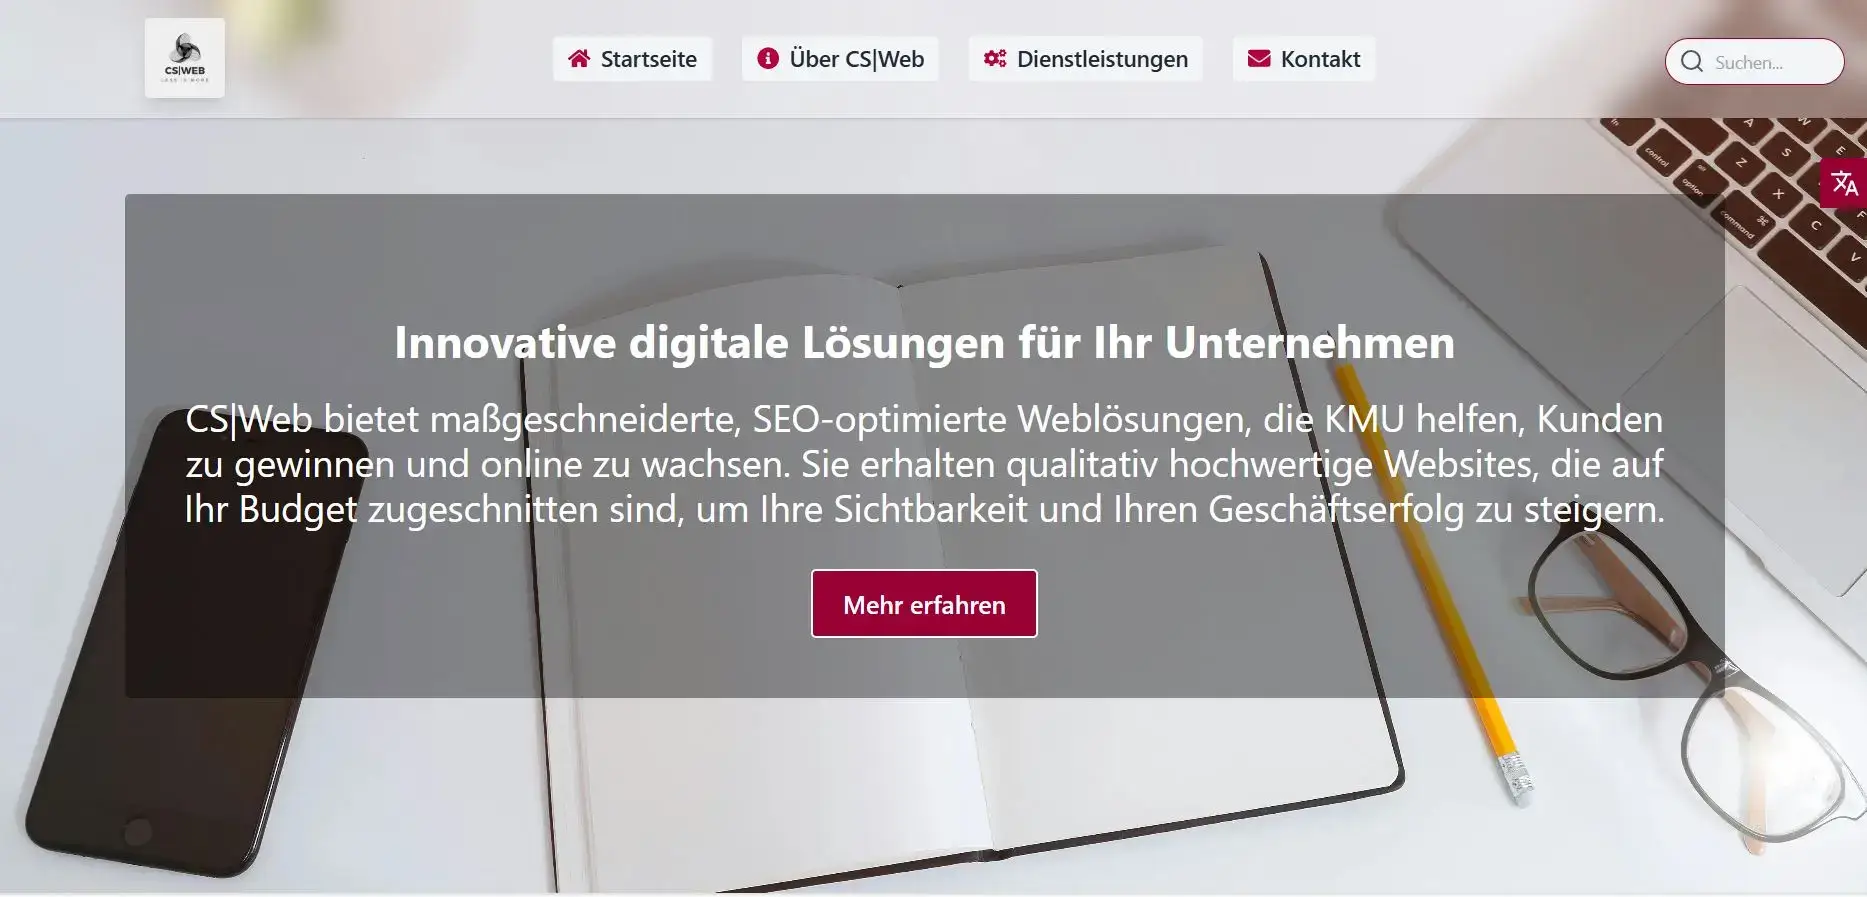
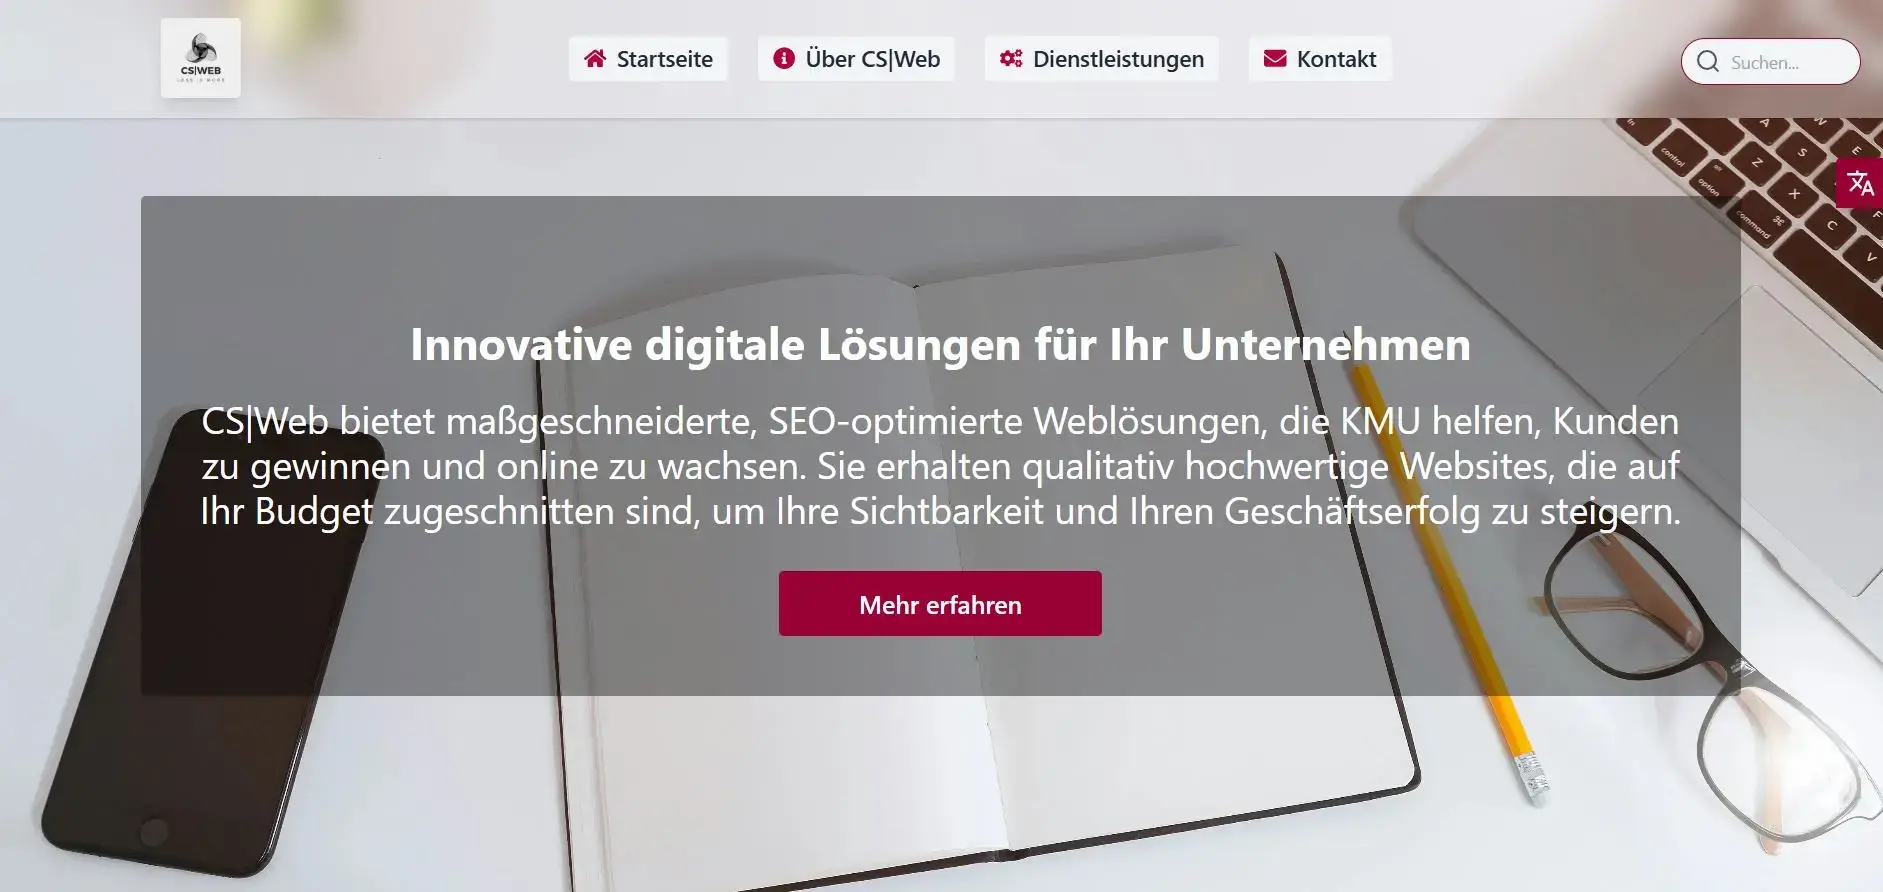
UI adjustments

diff --git a/src/pages/ProjectsPage/ProjectsPage.module.css b/src/pages/ProjectsPage/ProjectsPage.module.css
@@ -3,31 +3,52 @@
   padding: 2rem 1.5rem;
 }
 
-/* GALERIE CU PROIECTE – FLEX */
 .projectGrid {
-  display: flex;
-  flex-wrap: wrap;
-  justify-content: center;
-  gap: 4rem;
-  width: 100%;
-  max-width: 1200px;
+  list-style: none;
+  margin: 0;
   padding: 1rem;
   padding-top: 4rem;
+  display: grid;
+  gap: 2rem;
+  width: 100%;
+  max-width: 1200px;
+
+  /* 📱 mobil: 2 coloane */
+  grid-template-columns: repeat(2, minmax(0, 1fr));
+}
+
+/* 💻 >= 768px: 3 coloane */
+@media (min-width: 768px) {
+  .projectGrid {
+    gap: 2.5rem;
+    grid-template-columns: repeat(3, minmax(0, 1fr));
+  }
+}
+
+/* 🖥 >= 1280px: 4 coloane */
+@media (min-width: 1280px) {
+  .projectGrid {
+    grid-template-columns: repeat(4, minmax(0, 1fr));
+  }
 }
 
 .projectCard {
   position: relative;
-  border-radius: 0.5rem; 
+  border-radius: 0.5rem;
   overflow: hidden;
   cursor: pointer;
-  width: 25rem;
+  width: 100%;
+  min-width: 0;
+  border: 2px dashed transparent;
   aspect-ratio: 4 / 3;
-  transition: transform 0.3s ease;
+  transition: transform 0.3s ease, box-shadow 0.3s ease;
   box-shadow: 0 0.5rem 1rem rgba(0, 0, 0, 0.35);
 }
+
 .projectCard:hover {
-  transform: scale(1.02);
-  border: 2px dashed #ccc;
+  transform: translateY(-2px) scale(1.02);
+  box-shadow: 0 1rem 2rem rgba(0, 0, 0, 0.35);
+  border-color: #ccc;
 }
 
 .proTitle {
@@ -40,7 +61,7 @@
   background-size: cover;
   background-position: center;
   position: relative;
-  border-radius: 0.5rem; /* dacă vrei colțuri rotunjite */
+  border-radius: 0.5rem;
   box-shadow: 0 6px 18px rgba(0, 0, 0, 0.25);
 }
 
@@ -61,7 +82,7 @@
 
 .projectTitle {
   color: white;
-  font-size: 1.3rem;
+  font-size: 1.1rem;
   font-weight: 600;
   text-align: center;
 }
@@ -72,21 +93,18 @@
   max-width: 25rem;
 }
 
-
+/* Ajustări mobile mici */
 @media only screen and (max-width: 767px) {
   .mainContainer {
     gap: 2rem;
   }
-
   .projectGrid {
-    justify-content: center;
     padding: 0.5rem;
+    gap: 1rem;
   }
-
   .placeholder {
     height: 4rem;
   }
-
   hr {
     display: block;
     border-top: 2px solid #3747d6;
@@ -94,15 +112,14 @@
   }
 }
 
+/* Tablet / laptop */
 @media (min-width: 701px) and (max-width: 1200px) {
   .mainContainer {
     padding: 2.5rem;
   }
-
   .projectGrid {
-    justify-content: center;
+    justify-items: stretch;
   }
-
   hr {
     display: block;
     border-top: 2px solid #3747d6;

diff --git a/src/components/NextItemsCarousel/NextItemsCarousel.jsx b/src/components/NextItemsCarousel/NextItemsCarousel.jsx
@@ -1,0 +1,55 @@
+import React from "react";
+import { Swiper, SwiperSlide } from "swiper/react";
+import { Pagination, Keyboard, A11y, EffectCoverflow } from "swiper/modules";
+
+import "swiper/css";
+import "swiper/css/pagination";
+
+import css from "./NewItemsCarousel.module.css";
+
+const NewItemsCarousel = ({ items = [], title, subtitle }) => {
+  return (
+    <div className={css.wrapper}>
+      {title && <h3 className={css.title}>{title}</h3>}
+      {subtitle && <p className={css.subtitle}>{subtitle}</p>}
+
+      <Swiper
+        modules={[Pagination, Keyboard, A11y, EffectCoverflow]}
+        effect="coverflow"
+        coverflowEffect={{
+          rotate: 0,
+          depth: 120,
+          stretch: 0,
+          modifier: 1,
+          slideShadows: false,
+        }}
+        /* 🔧 Fix: fără centrare, fără auto-width */
+        centeredSlides={false}
+        slidesPerView={1}
+        spaceBetween={16}
+        breakpoints={{
+          640: { slidesPerView: 2 },
+          1024: { slidesPerView: 3 },
+        }}
+        pagination={{ clickable: true }}
+        keyboard={{ enabled: true }}
+        className={css.swiper}
+      >
+        {items.map((it) => (
+          <SwiperSlide key={it.id} className={css.slide}>
+            <article className={css.card} aria-label={it.name}>
+              {it.badge && <span className={css.badge}>{it.badge}</span>}
+              <img src={it.img} alt={it.name} className={css.image} loading="lazy" />
+              <div className={css.info}>
+                <h4 className={css.name}>{it.name}</h4>
+                {it.price && <div className={css.price}>{it.price}</div>}
+              </div>
+            </article>
+          </SwiperSlide>
+        ))}
+      </Swiper>
+    </div>
+  );
+};
+
+export default NewItemsCarousel;

diff --git a/src/components/LightboxGallery/LightboxGallery.module.css b/src/components/LightboxGallery/LightboxGallery.module.css
@@ -1,64 +1,3 @@
-/* 
-.image-gallery-content .image-gallery-slide .image-gallery-image {
-  border-radius: 0.5rem;
-}
-
-.galleryWrapper {
-  width: 100%;
-}
-
-.image-gallery-left-nav .image-gallery-svg,
-.image-gallery-right-nav .image-gallery-svg {
-  height: 4rem;
-  width: 3rem;
-}
-
-
-.imagine {
-  width: 6.25rem;
-  height: 6.25rem;
-  object-fit: cover;
-  border-radius: 0.5rem;
-  cursor: pointer;
-}
-
-
-@media only screen and (max-width: 767px) {
-
-}
-
-.galleryContainer {
-  display: flex;
-  flex-wrap: wrap;
-  gap: 1rem;
-  justify-content:center;
-
-}
-
-.thumbnail {
-  width: 100px; 
-  height: 100px; 
-  object-fit: cover;
-  cursor: pointer;
-  transition: transform 0.3s ease;
-  border-radius:0.5rem;
-}
-
-.thumbnail:hover {
-  transform: scale(1.05);
-}
-
-.imgFit {
-  max-width: 100vw;
-  max-height: 100vh;
-  object-fit: contain;
-}
-.fullscreenWrapper {
-  width: 100%;
-  height: 100%;
-} */
-
-
 /* Container grilă — se întinde pe lățimea disponibilă */
 .galleryContainer {
   width: 100%;
@@ -70,14 +9,14 @@
 /* Forțează 2 coloane pe desktop, chiar dacă wrapperul tinde să se “strângă” */
 @media (min-width: 900px) {
   .galleryContainer {
-    grid-template-columns: repeat(2, minmax(0, 1fr));
+    grid-template-columns: repeat(4, minmax(0, 1fr));
   }
 }
 
 /* Thumbnail-urile cu umbră și hover */
 .thumbnail {
   width: 100%;
-  height: 240px;            /* ajustează după layout */
+  height: 140px;        
   object-fit: cover;
   border-radius: 0.5rem;
   box-shadow: 0 6px 18px rgba(0, 0, 0, 0.25);

diff --git a/src/components/NextItemsCarousel/NextItemsCarousel.module.css b/src/components/NextItemsCarousel/NextItemsCarousel.module.css
@@ -1,0 +1,41 @@
+.wrapper { width: 100%; }
+.title { text-align: center; font-size: 1.25rem; font-weight: 700; margin: .25rem 0; }
+.subtitle { text-align: center; opacity: .7; margin: 0 0 .5rem; }
+
+/* fiecare slide are lățime fixă, ca în mock */
+.slide { width: 180px !important; }
+
+.card {
+  position: relative;
+  background: #fff;
+  border-radius: 14px;
+  box-shadow: 0 8px 24px rgba(0,0,0,.12);
+  padding: .75rem;
+  overflow: hidden;
+  transform: translateZ(0);
+  transition: transform .25s ease, box-shadow .25s ease;
+}
+.image { width: 100%; height: 140px; object-fit: cover; border-radius: 10px; }
+.info { margin-top: .5rem; display: grid; gap: .25rem; }
+.name { font-size: .95rem; font-weight: 600; line-height: 1.2; }
+.price { font-weight: 700; }
+
+.badge {
+  position: absolute; top: .4rem; left: .4rem;
+  background: #ffeded; color: #c2410c; border: 1px solid #fca5a5;
+  font-size: .7rem; font-weight: 700; padding: .15rem .35rem; border-radius: 999px;
+}
+
+/* slide activ puțin mai mare, ca în screenshot */
+:global(.swiper-slide-active) .card { transform: scale(1.06); box-shadow: 0 12px 30px rgba(0,0,0,.16); }
+
+/* pagination dots */
+:global(.swiper-pagination-bullets) { bottom: -2px; }
+:global(.swiper-pagination-bullet) { width: 6px; height: 6px; }
+:global(.swiper-pagination-bullet-active) { background: #334155; }
+
+/* responsive */
+@media (max-width: 480px) {
+  .slide { width: 160px !important; }
+  .image { height: 120px; }
+}

diff --git a/src/pages/AdviceSlip/AdviceSlip.module.css b/src/pages/AdviceSlip/AdviceSlip.module.css
@@ -19,6 +19,8 @@
   height: 18rem;
   object-fit: cover;
   border-radius: 0.5rem;
+  box-shadow: 0 8px 24px rgba(0, 0, 0, 0.18);
+  transition: transform 0.25s ease, box-shadow 0.25s ease;
 }
 
 .aboutApp {
@@ -26,11 +28,11 @@
 }
 
 .textBtnContainer {
-    display: flex;
-    flex-direction: column;
-    align-items: center;
-    justify-items: center;
-    gap: 1.5rem;
+  display: flex;
+  flex-direction: column;
+  align-items: center;
+  justify-items: center;
+  gap: 1.5rem;
 }
 
 @media only screen and (max-width: 800px) {

diff --git a/src/components/RobotApp/RobotApp.module.css b/src/components/RobotApp/RobotApp.module.css
@@ -12,6 +12,8 @@
   padding: 0.3rem;
   justify-content: space-between;
   overflow: hidden;
+  box-shadow: 0 8px 24px rgba(0, 0, 0, 0.18);
+  transition: transform 0.25s ease, box-shadow 0.25s ease;
 }
 
 .pinkBtn {
@@ -26,7 +28,7 @@
   margin: 1rem 0;
   font-weight: bold;
   cursor: pointer;
-  padding:0.5rem;
+  padding: 0.5rem;
 }
 
 .jokePara {

diff --git a/src/components/Modal/Modal.module.css b/src/components/Modal/Modal.module.css
@@ -12,7 +12,7 @@
   }
   
   .modalContent {
-    width: 80%;
+    width: 100%;
     max-height: 80%;
     overflow: hidden;
     background: transparent;
